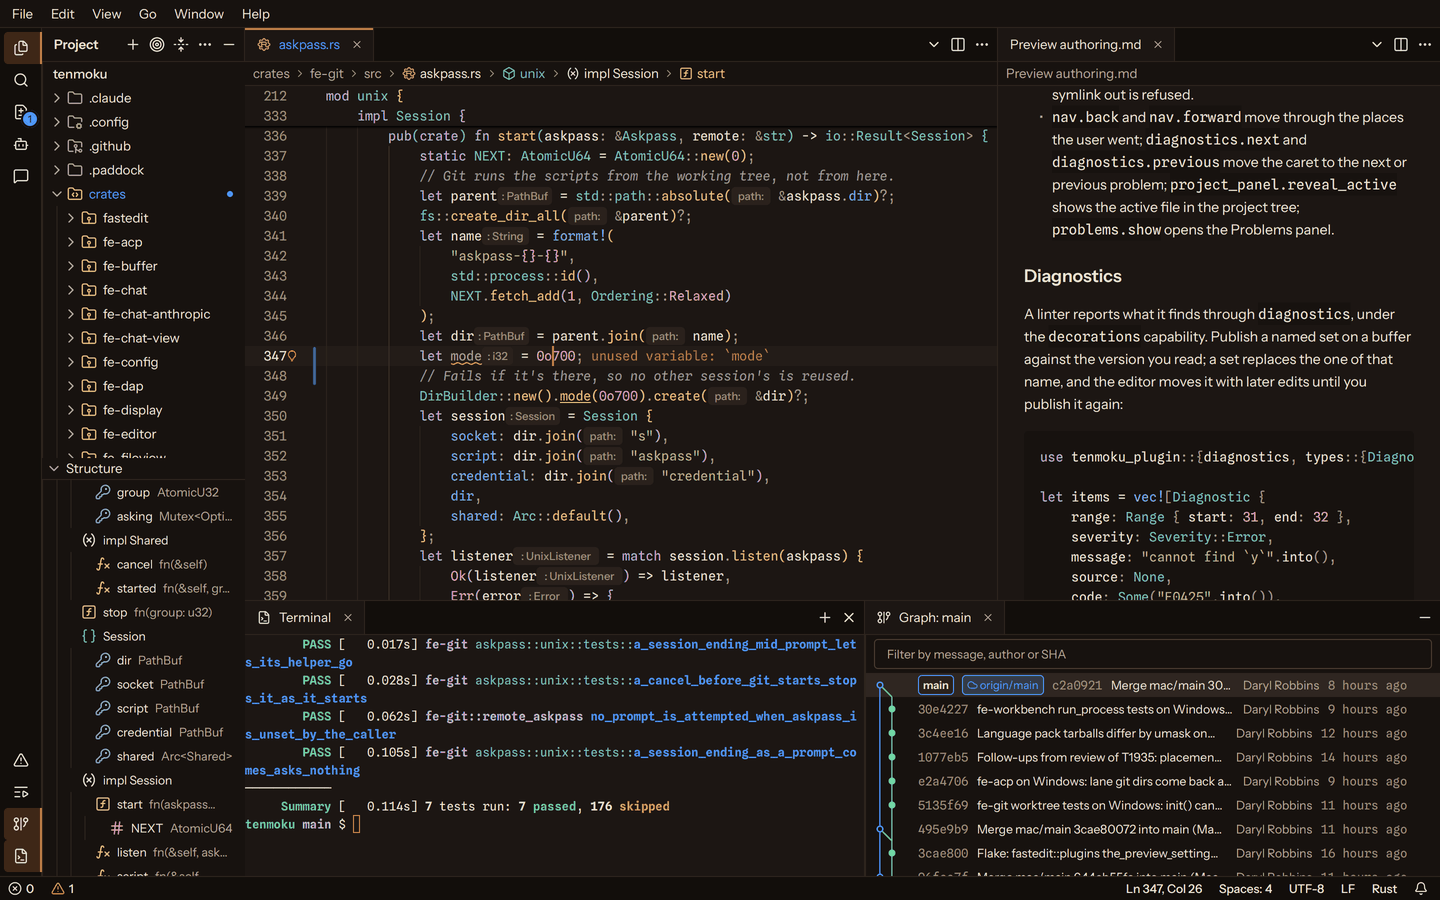
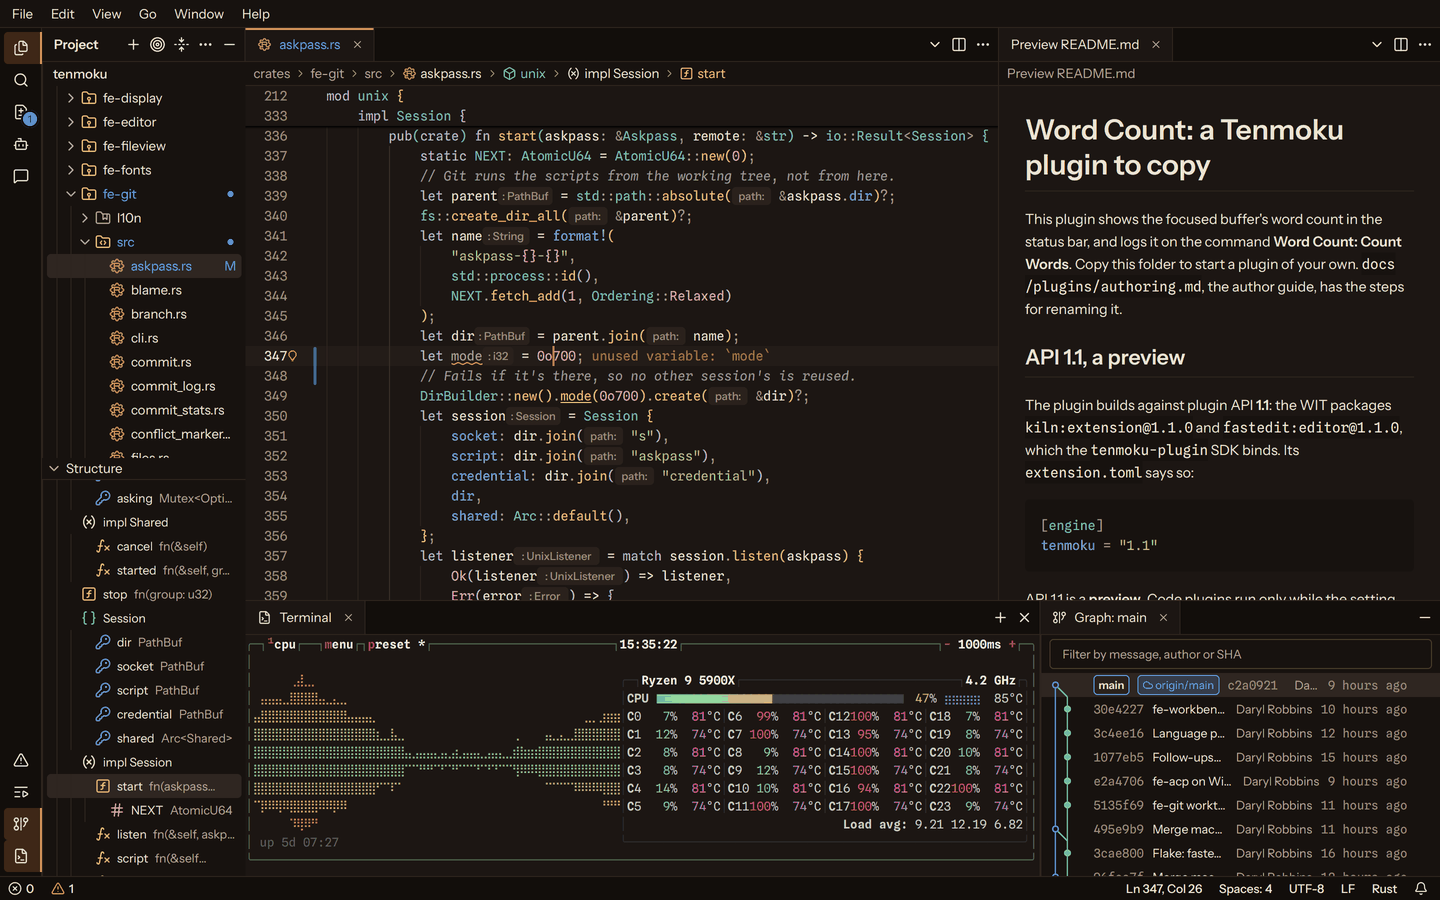
Hero: btop in the terminal, a Markdown preview that starts on a heading
The user's third pass, on the same v0.2.5 build (5624be176) and the same
--shared clone of helium main named tenmoku:

- btop in the terminal again, as in the original hero (its CPU box, the
  default theme with a transparent background), in place of the test run;
  the terminal | graph split moved toward the graph so btop has about 98
  columns, while the graph still shows its lanes and merges;
- the preview is the plugin template's README
  (crates/tenmoku-plugin/template/README.md), from its top: the title, a
  paragraph, "API 1.1, a preview" and a TOML code block that fits the pane;
- everything else as before: askpass.rs with inlay hints, change bars and
  the inline warning, "Graph: main", the Structure view expanded, the
  Changes badge.

The alt text, caption and og:image:alt describe the new shot.

diff --git a/index.html b/index.html
@@ -19,7 +19,7 @@
   <meta property="og:image" content="https://tenmoku.dev/assets/og.png">
   <meta property="og:image:width" content="1200">
   <meta property="og:image:height" content="630">
-  <meta property="og:image:alt" content="The Tenmoku editor with a Rust file beside a Markdown preview, the Structure view, and the terminal and Git graph side by side">
+  <meta property="og:image:alt" content="The Tenmoku editor with a Rust file beside a Markdown preview, the Structure view, and btop in the terminal beside the Git graph">
   <meta name="twitter:card" content="summary_large_image">
   <link rel="preload" href="assets/fonts/InstrumentSans-Regular.woff2" as="font" type="font/woff2" crossorigin>
   <link rel="stylesheet" href="assets/style.css">
@@ -49,9 +49,9 @@
     <figure class="shot">
       <picture>
         <source srcset="assets/hero.webp 1x, assets/hero@2x.webp 2x" type="image/webp">
-        <img src="assets/hero.png" width="1440" height="900" alt="Tenmoku in its dark theme with two editor panes: on the left a Rust file from Tenmoku's own Git code with breadcrumbs, sticky scroll, inlay hints, change bars in the gutter and an inline unused-variable warning; on the right a rendered Markdown preview of the plugin guide with a list, a heading and a highlighted Rust code block. The sidebar shows the project tree above the Structure view, expanded to a nested symbol tree. Below, the terminal shows a passing cargo nextest run beside the Git graph of the main branch with its merges.">
+        <img src="assets/hero.png" width="1440" height="900" alt="Tenmoku in its dark theme with two editor panes: on the left a Rust file from Tenmoku's own Git code with breadcrumbs, sticky scroll, inlay hints, change bars in the gutter and an inline unused-variable warning; on the right a rendered Markdown preview of the plugin template's README, with its headings and a TOML code block. The sidebar shows the project tree above the Structure view, expanded to a nested symbol tree. Below, btop graphs CPU load in the terminal beside the Git graph of the main branch with its merges.">
       </picture>
-      <figcaption>Tenmoku editing its own source: a Rust file beside a Markdown preview, the Structure view, and the terminal and Git graph side by side.</figcaption>
+      <figcaption>Tenmoku editing its own source: a Rust file beside a Markdown preview, the Structure view, and btop in the terminal beside the Git graph.</figcaption>
     </figure>
 
     <section id="features" class="features" aria-label="Features">
